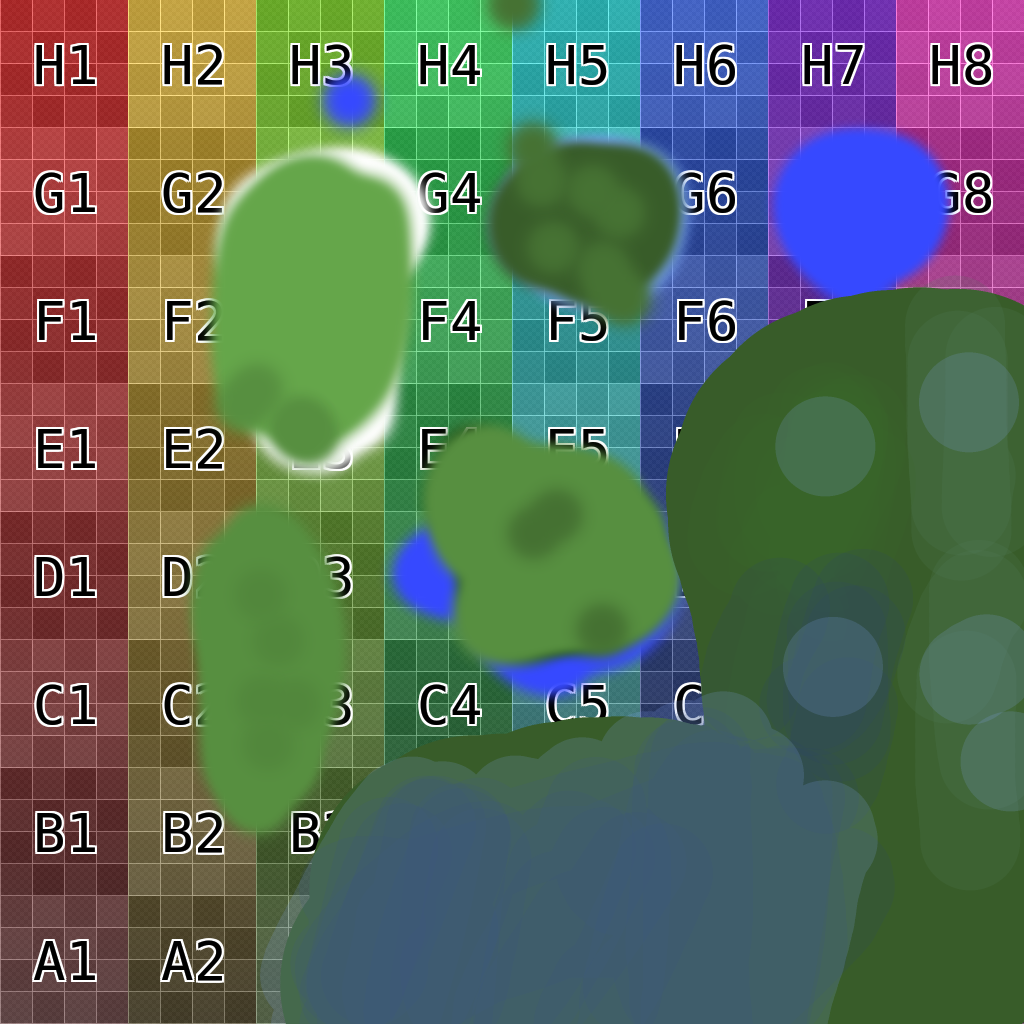
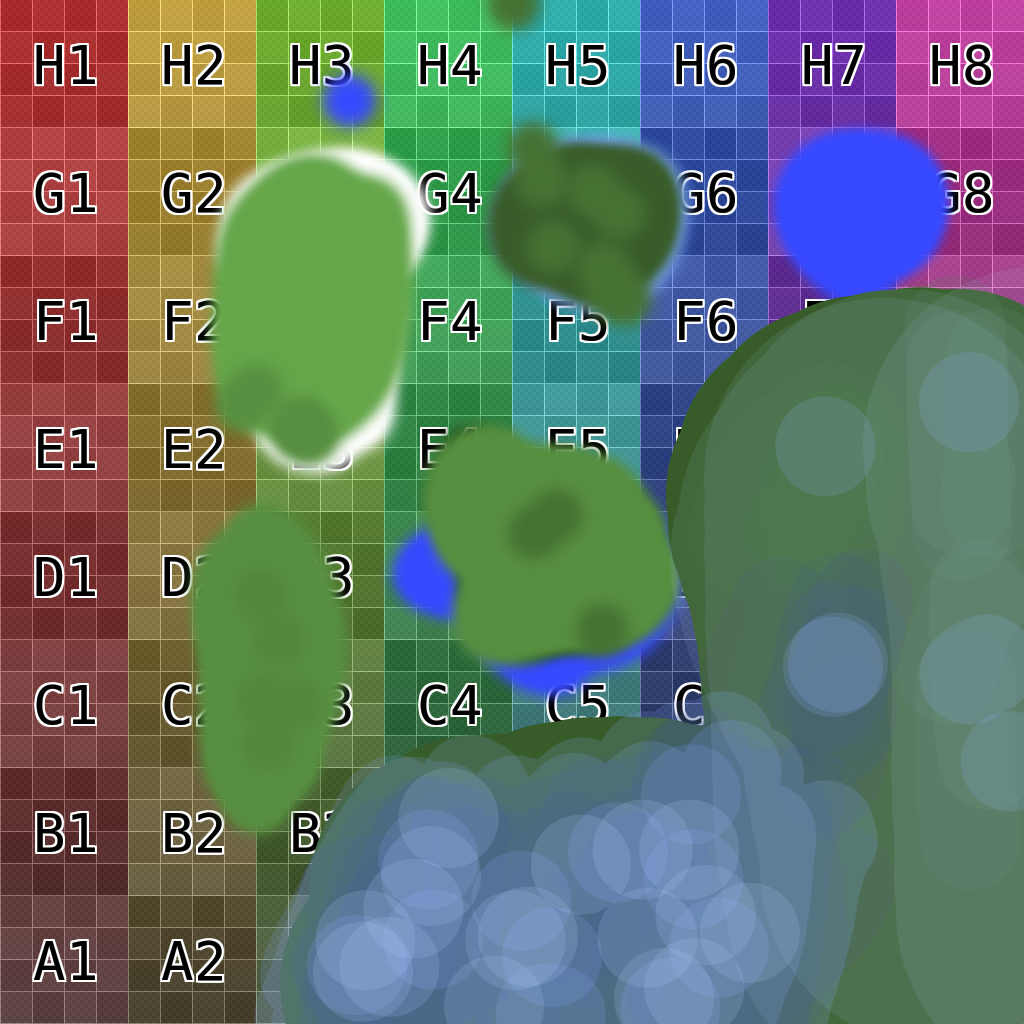
山のテクスチャを調整

diff --git a/Engine/Manager/SceneManager.cpp b/Engine/Manager/SceneManager.cpp
@@ -162,7 +162,7 @@ void SceneManager::Load() {
 	ModelManager::LoadModel("./Game/Resources/Model/", "Splash.obj");
 	ModelManager::LoadModel("./Game/Resources/Model/Mountain/", "Mountain.obj");
 	ModelManager::LoadModel("./Game/Resources/Model/MountenTree/", "MountenTree.obj");
-	//ModelManager::LoadModel("./Game/Resources/Model/MountainGrass/", "MountainGrass.obj");
+	ModelManager::LoadModel("./Game/Resources/Model/MountainGrass/", "MountainGrass.obj");
 	ModelManager::LoadModel("./Game/Resources/Model/Cloud/", "Cloud.obj");
 	ModelManager::LoadModel("./Game/Resources/Model/Moai/", "Moai.obj");
 	ModelManager::LoadModel("./Game/Resources/Model/Nico/", "Nico.obj");

diff --git a/Game/GameObject/WorldObjects.h b/Game/GameObject/WorldObjects.h
@@ -40,7 +40,7 @@ private:
 	uint32_t mountainLoopCount_ = 0;
 	bool nowMountainIndex_ = 0;
 	std::unique_ptr<BaseGameObject> trees_[kStageMax_];
-	//std::unique_ptr<BaseGameObject> grass_[kStageMax_];
+	std::unique_ptr<BaseGameObject> grass_[kStageMax_];
 	std::unique_ptr<BaseGameObject> cloud_[kStageMax_];
 
 	std::unique_ptr<BaseGameObject> moai_[kStageMax_];

diff --git a/Game/GameObject/WorldObjects.cpp b/Game/GameObject/WorldObjects.cpp
@@ -36,6 +36,8 @@ void WorldObjects::Init() {
 		// 山
 		mountains_[oi] = std::make_unique<Mountain>();
 		mountains_[oi]->Init();
+		mountains_[oi]->SetIsLighting(true);
+
 		// 木
 		trees_[oi] = std::make_unique<BaseGameObject>();
 		trees_[oi]->Init();
